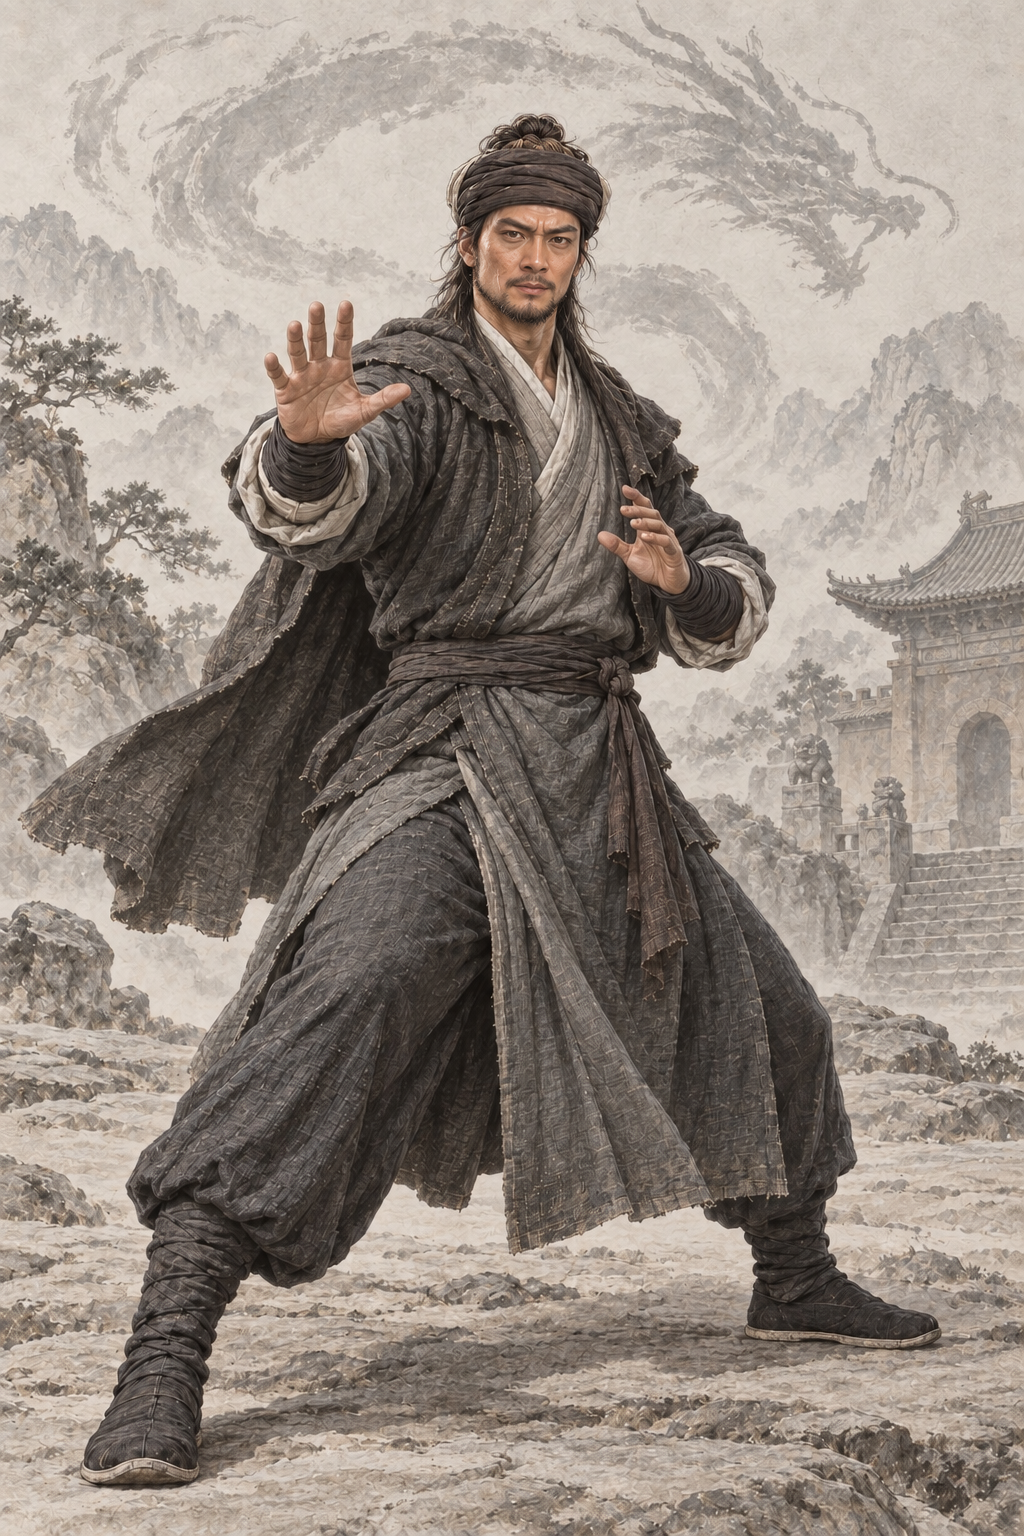
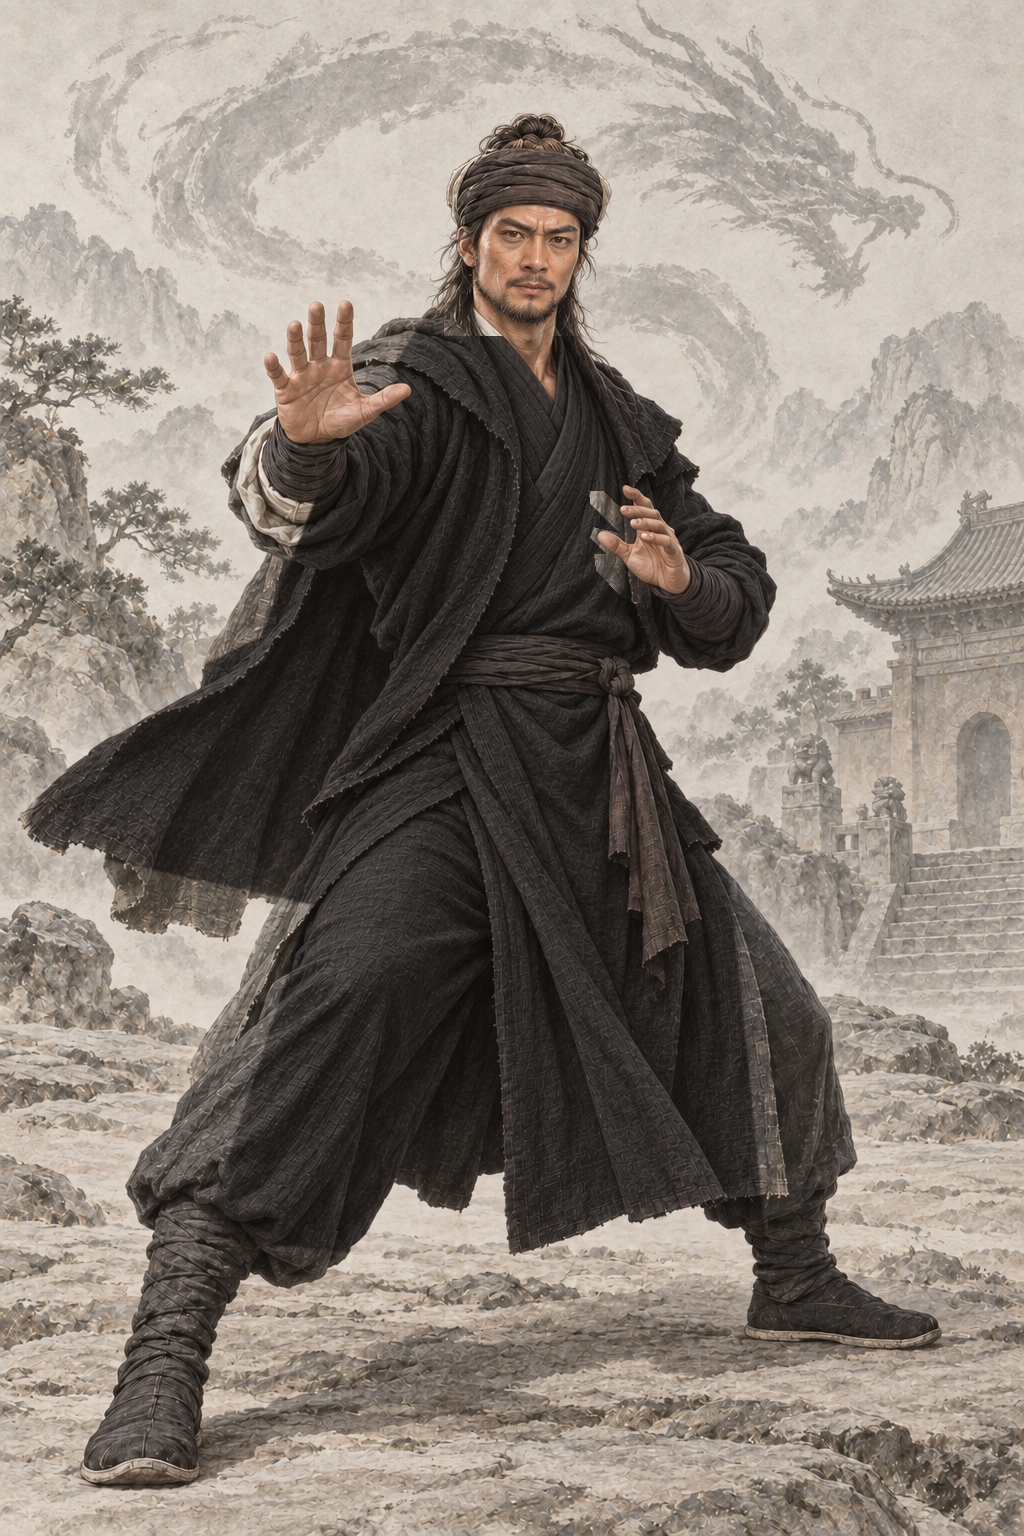
assets: AR-82 原著核对返修 萧峰少室服装改玄色布衣薄毡大氅
原著摘句已同步提示词；已打开验图；蒙版外0像素变化。

Executed-By: Codex gpt-6.1-sol（AR-82）

Changed region(s): [[0.0312, 0.1875, 0.7812, 0.8125]]

diff --git a/assets/default/prompts/characters/ch01-tianlong/npc_xiaofeng__scene_shaoshi_dragon_palm.md b/assets/default/prompts/characters/ch01-tianlong/npc_xiaofeng__scene_shaoshi_dragon_palm.md
@@ -98,3 +98,8 @@ REFERENCE ROLES: Image 1 is an authorized classic portrayal of Qiao Feng: use it
 - 采用作者授权宽松自查；偏差如实记录，candidate不代表approved。
 - 源PNG通常为1024×1536 RGB；其他原生2:3尺寸如实登记，原字节保存，不裁切、重编码、放大或去除溯源。
 - 完整请求、实际参考哈希及旧版本备份见 `.agents/coord/portrait-generation/realism-20261001/por_npc_xiaofeng__ch01_prime_scene_shaoshi_dragon_palm.prepared.json`。
+
+## 原著依据
+
+- 《天龙八部》第四十一回 燕云十八飞骑 奔腾如虎风烟举：“玄色薄毡大氅，里面玄色布衣”；https://www.xuges.com/wuxia/jinyong/tlbb/312.htm
+- AR-82 返修约束（本节优先于历史提示词）：仅修改人物穿戴的袍服：内为玄黑布衣，外加玄黑薄毡大氅随降龙掌风向原外袍同方向翻开；黑色稍有灰亮布纹，但须明确区别于丐帮灰旧袍。动作、手、脸、头巾、下腿鞋、背景完全不动。
